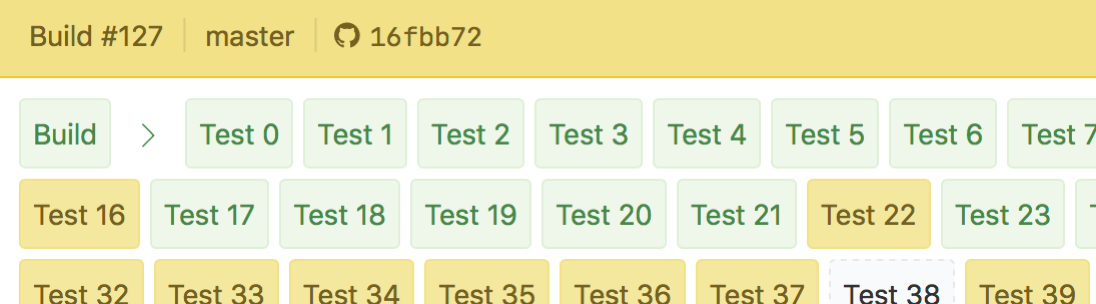
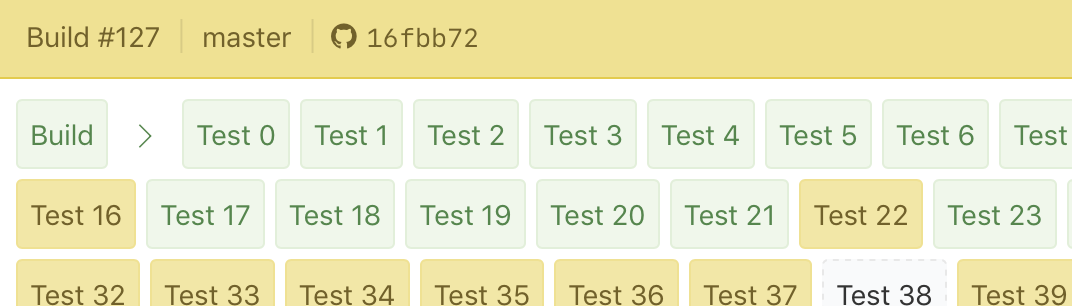
Update parallelism image, add buildkite metrics image

diff --git a/pages/features.js b/pages/features.js
@@ -15,10 +15,13 @@ const pipelineRunningImage = require('../assets/images/features/pipeline-running
 
 // -- Feature Section 2 --
 const artifactsAndParallelismImage = require('../assets/images/features/artifacts-and-parallelism.svg')
-const parallelismImage = require('../assets/images/features/parallelism.png') // TODO: Replace this image, it's rendered with subpixel antialiasing and is thus blurry
+const parallelismImage = require('../assets/images/features/parallelism.png')
 
 // -- Feature Section 3 --
 const elasticCiStackImage = require('../assets/images/features/elastic-ci-stack.png')
+
+// -- Feature Section 4 --
+const buildkiteMetricsImage = require('../assets/images/features/buildkite-metrics.png')
 
 // -- Feature Section 5 --
 const customFieldsImage = require('../assets/images/features/custom-fields.svg')
@@ -129,7 +132,7 @@ export default page(({ loggedIn }) => (
           </Description>
         </TextCell>
         <ImageCell>
-          <ImageWithBorder src="https://placeimg.com/550/260/animals" />
+          <ImageWithBorder src={buildkiteMetricsImage} alt="" />
         </ImageCell>
       </MediaItem>
     </section>
